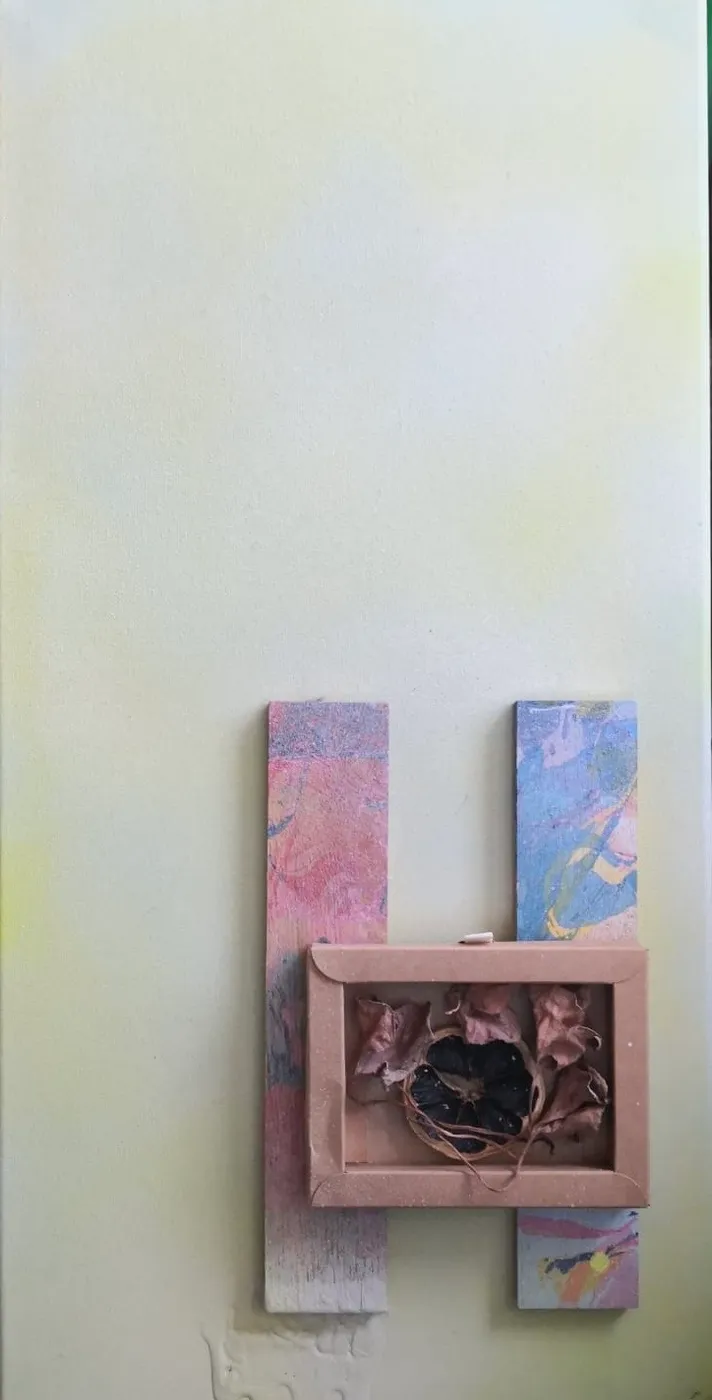
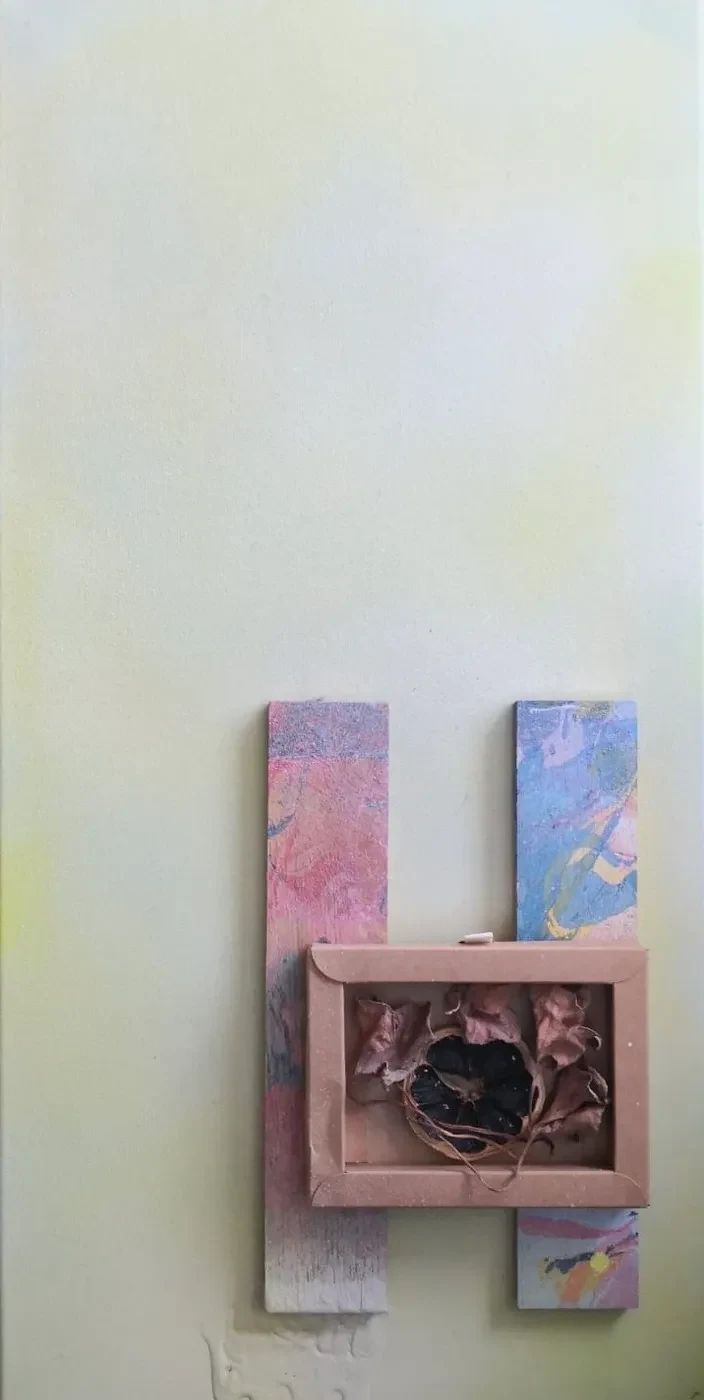
Intervenciones: sin borde derecho en IV y VI; nombre justo debajo de las alargadas

diff --git a/src/styles/global.css b/src/styles/global.css
@@ -265,3 +265,11 @@ p { margin: 0 0 1em; }
 }
 .reveal.sinfondo { background: none; }
 .card.tall .reveal.sinfondo img { object-position: 50% 0; }
+/* Alargadas: la imagen con su proporción real y el nombre justo debajo */
+@media (min-width: 600px) {
+  .card.tall { align-self: start; display: block; }
+  .card.tall .reveal { aspect-ratio: auto; min-height: 0; flex: none; }
+  .card.tall .reveal img { height: auto; }
+}
+.card.tall .reveal { aspect-ratio: auto; }
+.card.tall .reveal img { height: auto; }
